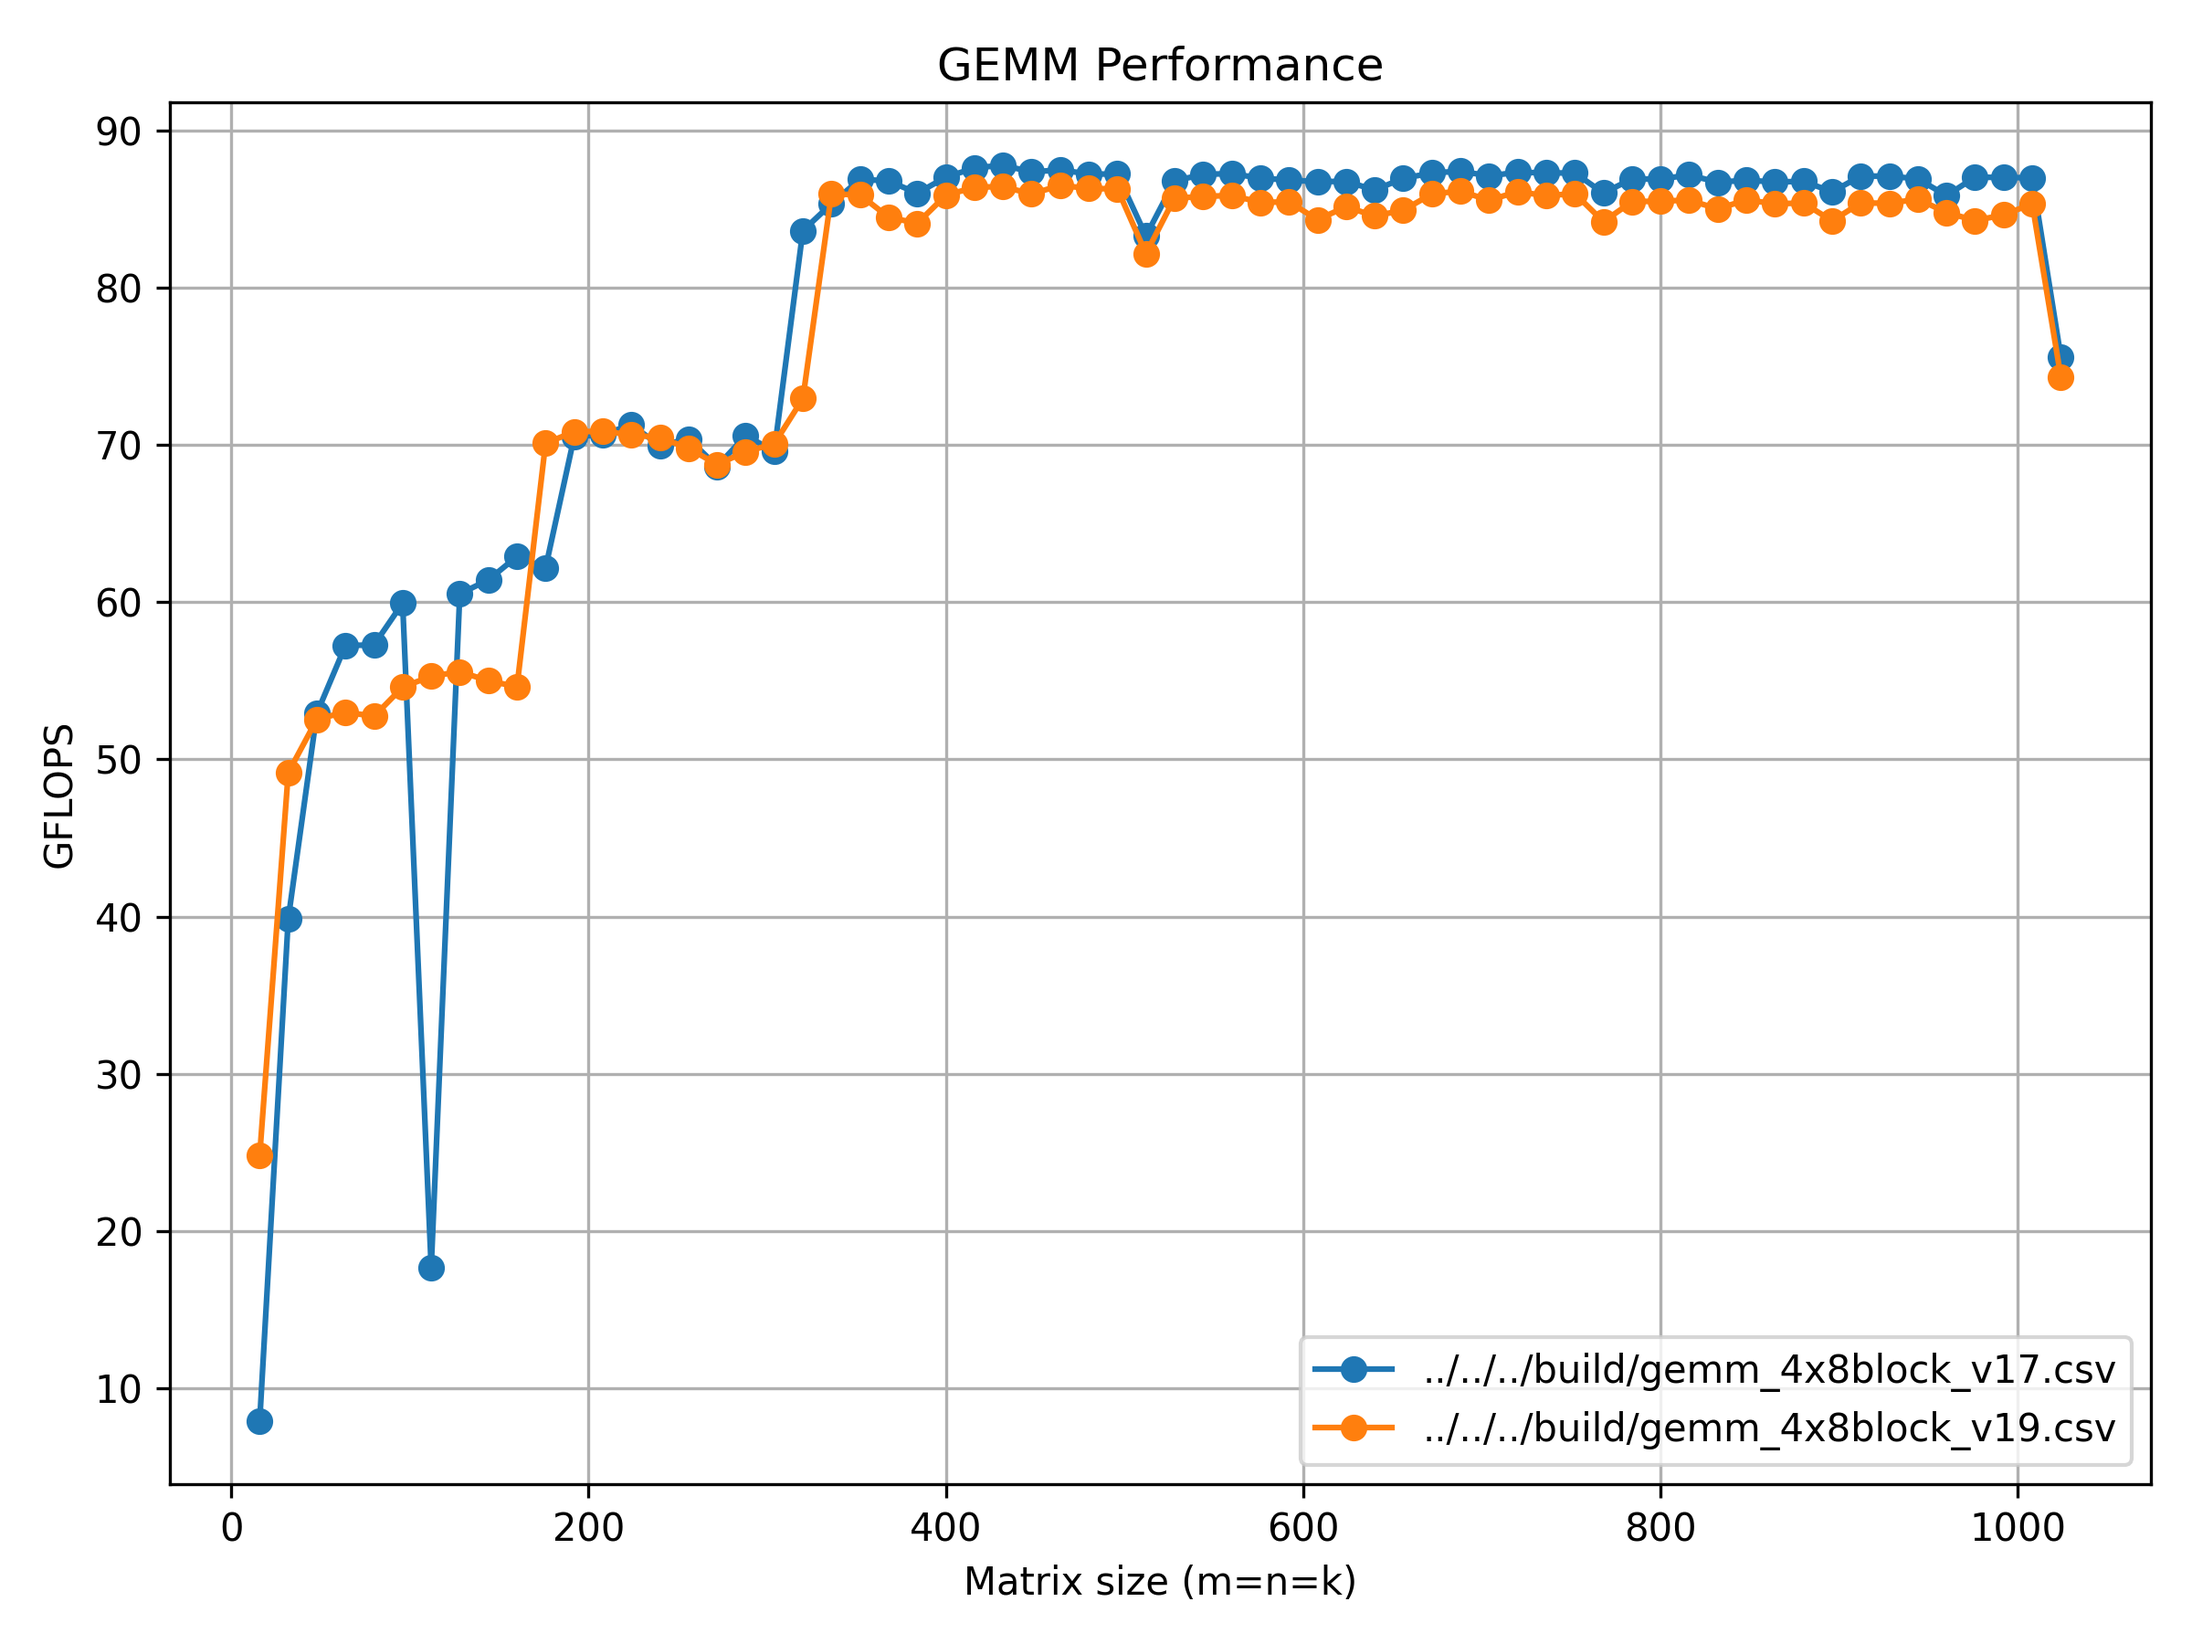
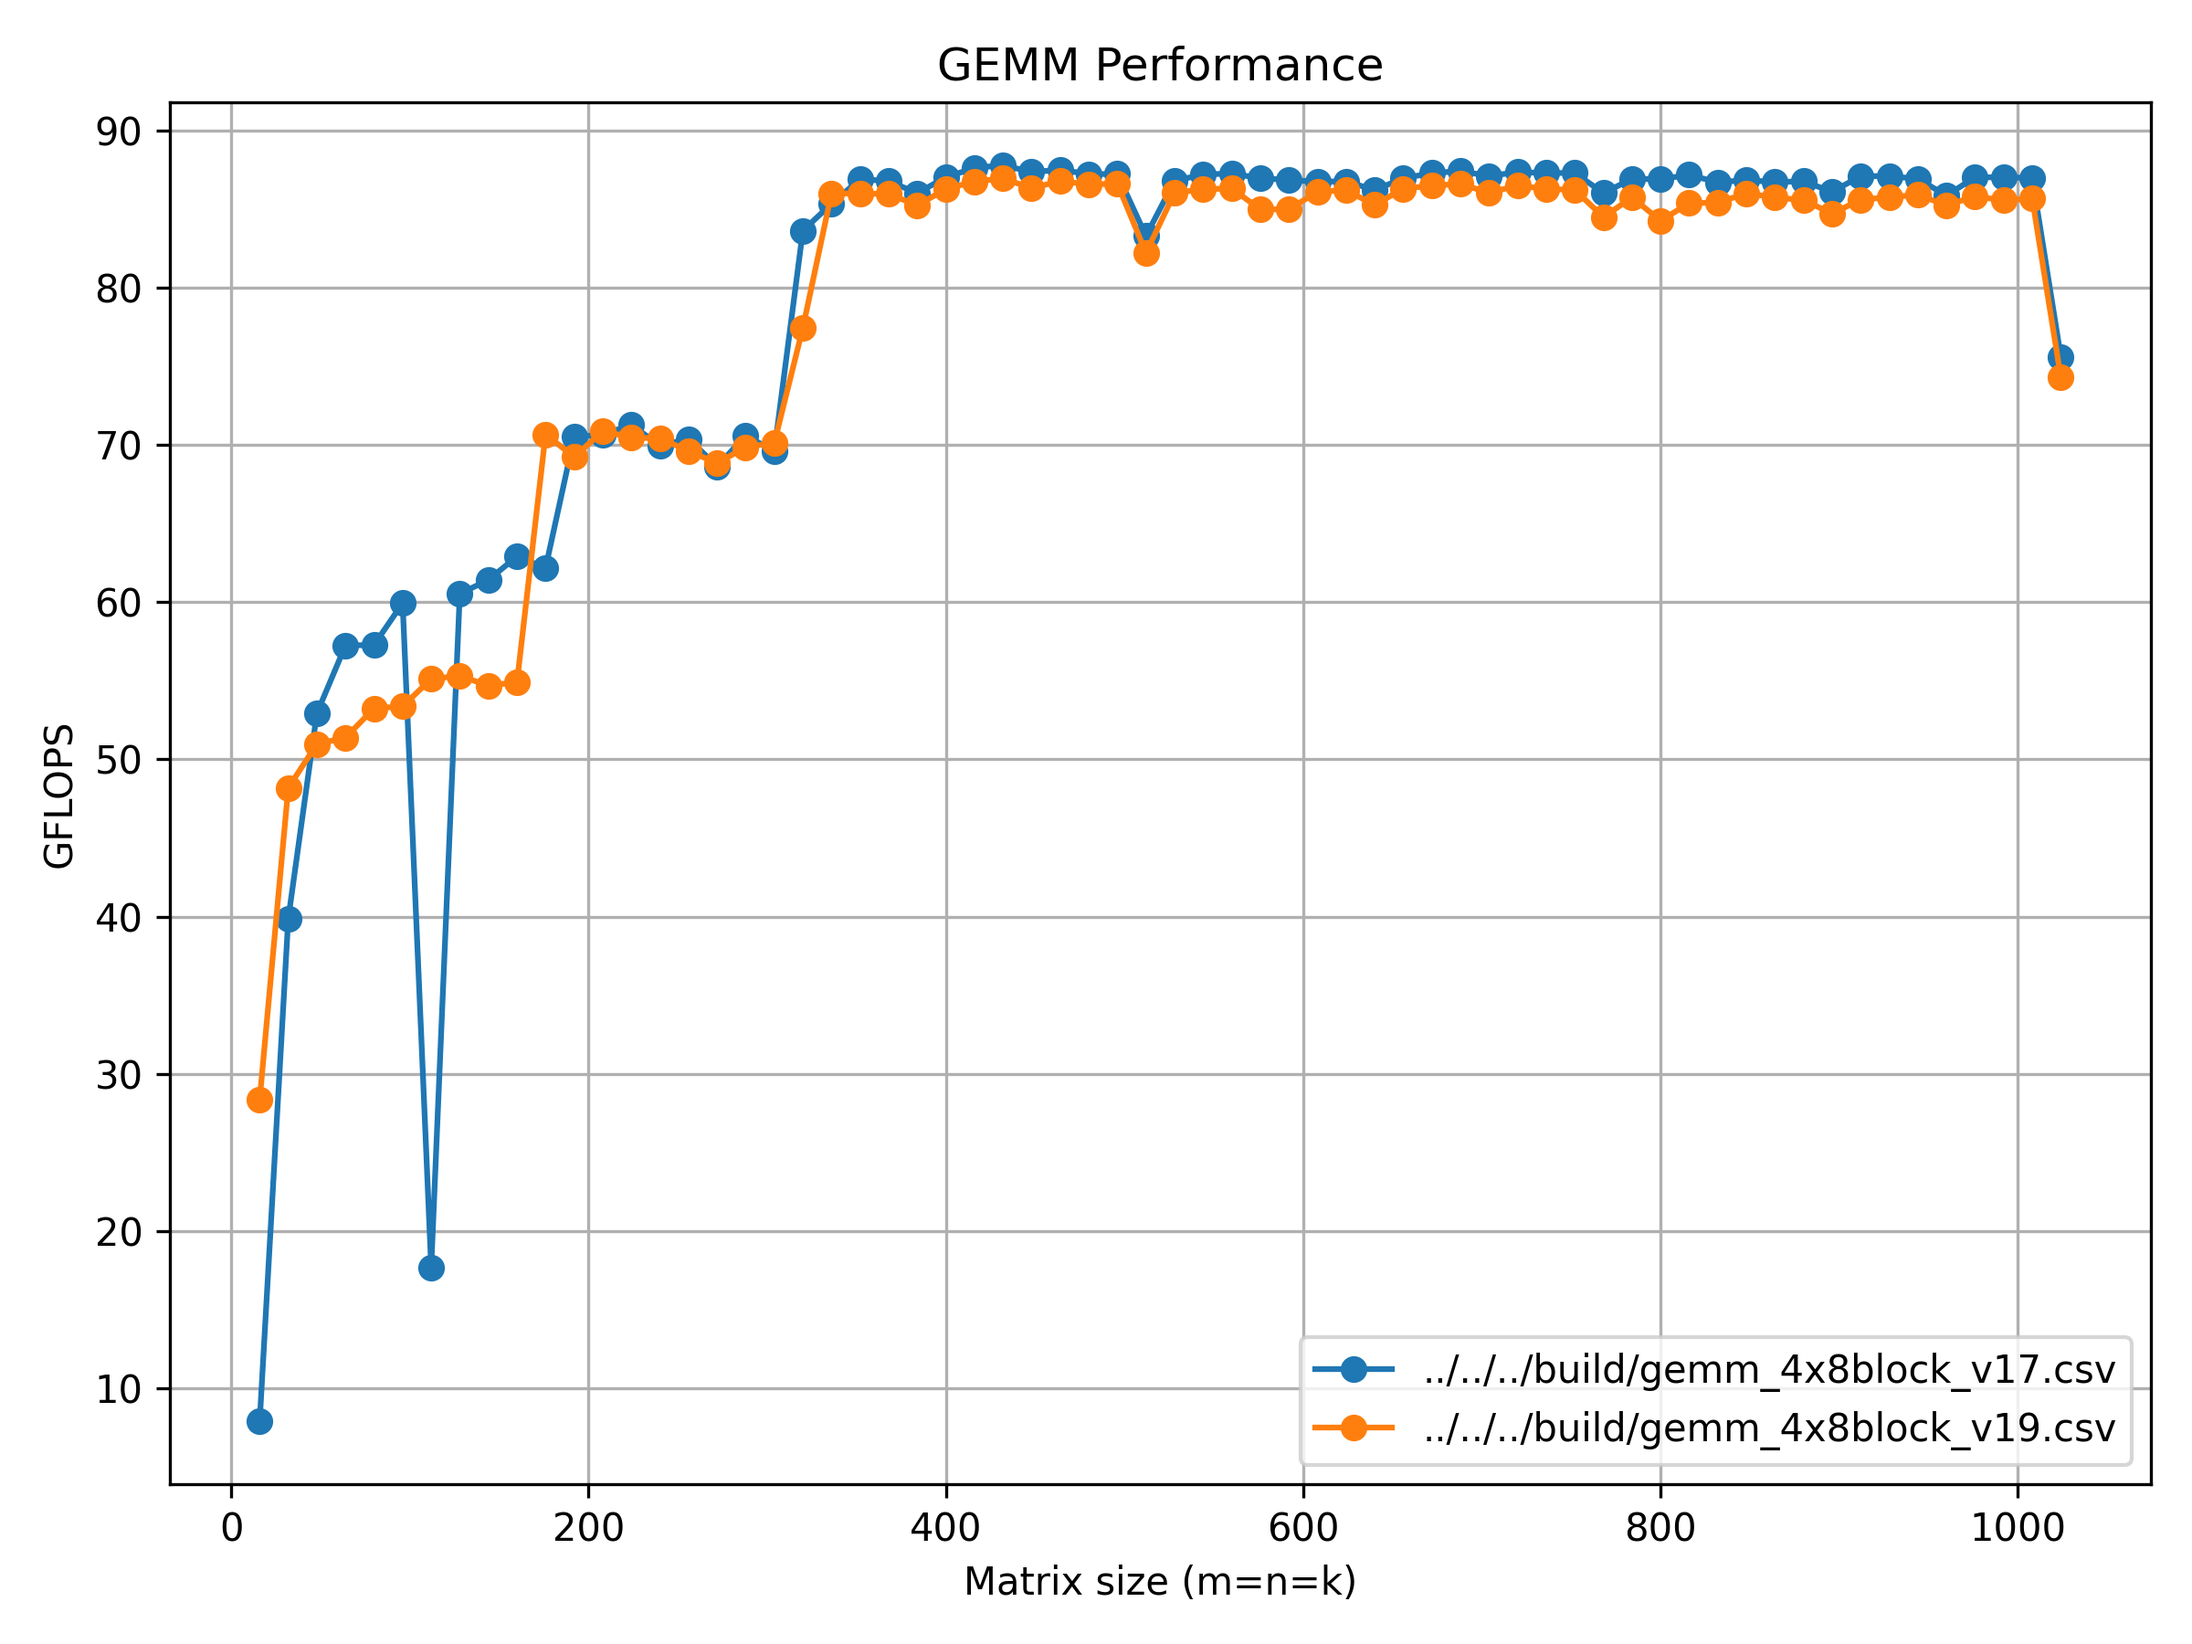
add gemm_4x8block_v19 use _mm256_broadcast_ss

diff --git a/src/cpu/gemm/gemm_4x8block_v19.cpp b/src/cpu/gemm/gemm_4x8block_v19.cpp
@@ -29,10 +29,10 @@ static void addDot4x8(int k, float *packedA, float *packedB, int ldb, float *C,
   float *a1_ptr = packedA + k;
   float *a2_ptr = packedA + 2 * k;
   float *a3_ptr = packedA + 3 * k;
-  a0_nex_vec.v = _mm256_set1_ps(*(a0_ptr + 0));
-  a1_nex_vec.v = _mm256_set1_ps(*(a1_ptr + 0));
-  a2_nex_vec.v = _mm256_set1_ps(*(a2_ptr + 0));
-  a3_nex_vec.v = _mm256_set1_ps(*(a3_ptr + 0));
+  a0_nex_vec.v = _mm256_broadcast_ss(a0_ptr + 0);
+  a1_nex_vec.v = _mm256_broadcast_ss((a1_ptr + 0));
+  a2_nex_vec.v = _mm256_broadcast_ss((a2_ptr + 0));
+  a3_nex_vec.v = _mm256_broadcast_ss((a3_ptr + 0));
 
   vec_t b_cur_vec, b_nex_vec;
   b_cur_vec.v = _mm256_set1_ps(0.00f);
@@ -55,10 +55,10 @@ static void addDot4x8(int k, float *packedA, float *packedB, int ldb, float *C,
       break;
     }
 
-    a0_nex_vec.v = _mm256_set1_ps(*(a0_ptr + p));
-    a1_nex_vec.v = _mm256_set1_ps(*(a1_ptr + p));
-    a2_nex_vec.v = _mm256_set1_ps(*(a2_ptr + p));
-    a3_nex_vec.v = _mm256_set1_ps(*(a3_ptr + p));
+    a0_nex_vec.v = _mm256_broadcast_ss((a0_ptr + p));
+    a1_nex_vec.v = _mm256_broadcast_ss((a1_ptr + p));
+    a2_nex_vec.v = _mm256_broadcast_ss((a2_ptr + p));
+    a3_nex_vec.v = _mm256_broadcast_ss((a3_ptr + p));
 
     b_nex_vec.v = _mm256_load_ps(&packedB[p * ldb]);
   }
